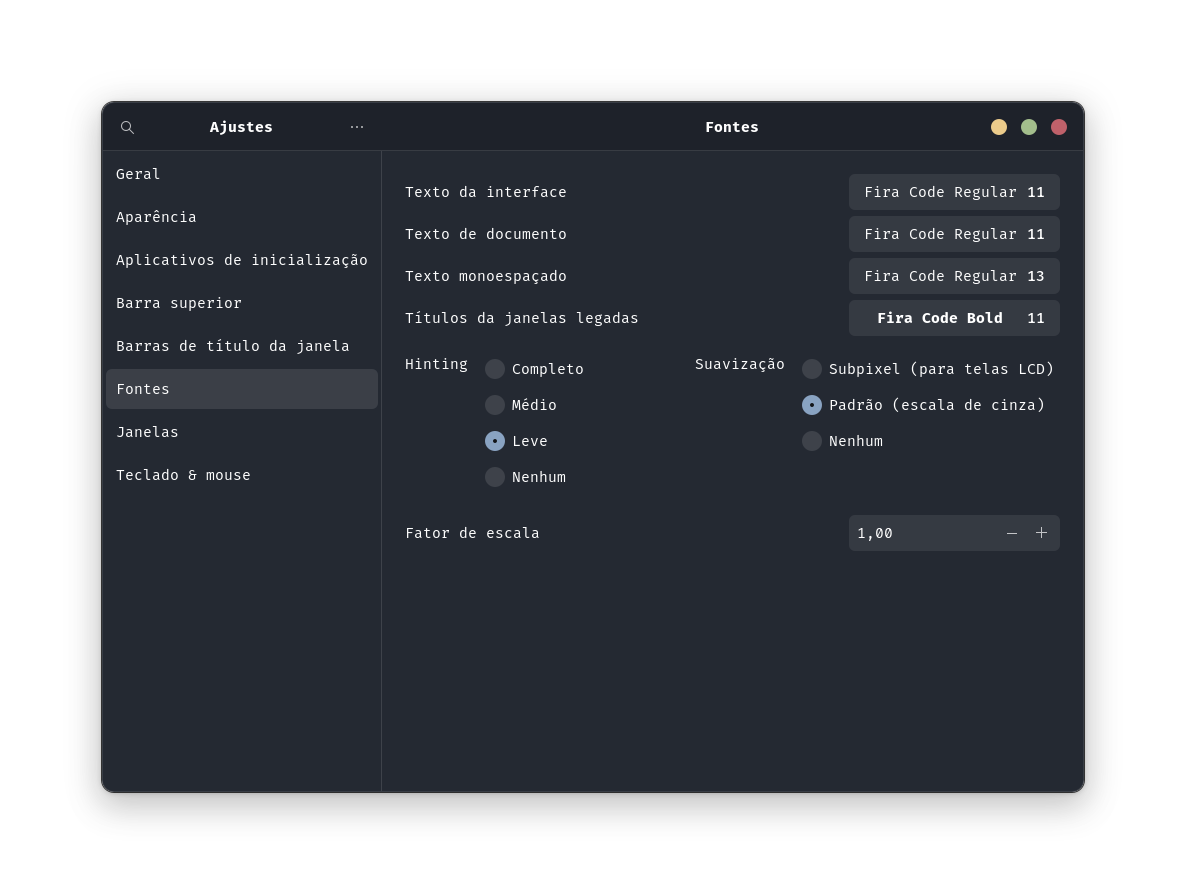
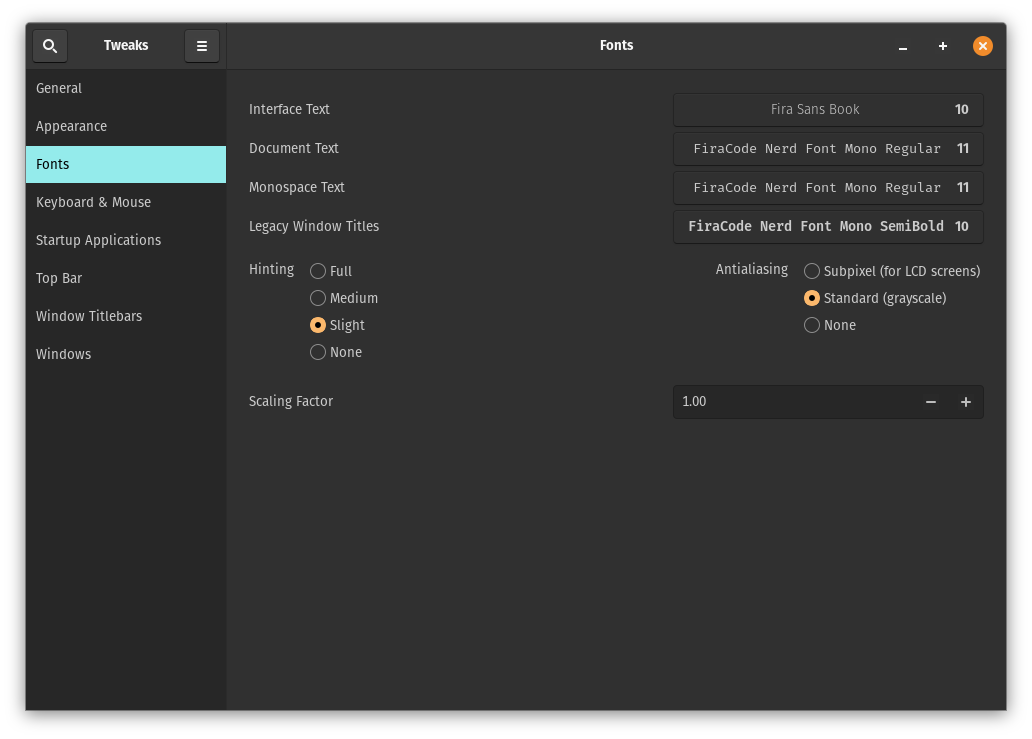
update: setup 2026

diff --git a/README.md b/README.md
@@ -1,19 +1,19 @@
 # My Linux WorkSpace 💻🧑🏽💻
 This is my current OS and How is my workspace.
-![Neofetch](assets/img/ubuntu.png)
+![Neofetch](assets/img/popOs.png)
 
 ## Shell
-I'm currently using the `ZSH` with `Oh My Zsh`
+I'm currently using the `Zsh` with `Oh My Zsh`
 
 ### installation
 - [ZSH](https://github.com/ohmyzsh/ohmyzsh/wiki/Installing-ZSH)
 
-    ```bash
-    sudo apt install zsh
+    ```
+    sudo apt install zsh -y
     ```
 - [Oh My Zsh](https://ohmyz.sh/)
 
-    ```bash
+    ```
     sh -c "$(curl -fsSL https://raw.githubusercontent.com/ohmyzsh/ohmyzsh/master/tools/install.sh)"
     ```
 ### Oh My Zsh plugins
@@ -24,29 +24,84 @@ I'm currently using the `ZSH` with `Oh My Zsh`
 
     > It suggests commands as you type based on history and completions.
 
-## GUI Personalization
-First of all to change the theme on ubuntu we'll need to install `gnome-tweaks`.
-```bash
-sudo apt install gnome-tweaks
+## Terminal
+Now I'm using [Alacritty](https://github.com/alacritty/alacritty).
+
+### installation
+You can install `Alacritty` following the official [guide](https://github.com/alacritty/alacritty/blob/master/INSTALL.md#prerequisites) on github.
+
+Start clonning the Repo:
+
 ```
-After that you can just search for **gnome tweaks** on the menu
+git clone https://github.com/alacritty/alacritty.git
+cd alacritty
+```
 
-![searching for gnome tweaks](assets/img/gnomeTweaks.png)
+Run this command to install `rustup`:
+```
+curl --proto '=https' --tlsv1.2 -sSf https://sh.rustup.rs | sh
+```
 
-### appearance
-![gnome tweaks appearance](assets/img/appearance.png)
-- Theme - [Colloid-gtk-theme](https://github.com/vinceliuice/Colloid-gtk-theme)
-- Icone Theme - [Colloid-icon-theme](https://github.com/vinceliuice/Colloid-icon-theme)
+Then run this command to see if the rustup is installed:
+```
+rustup override stable
+rustup update stable
+```
+
+Now run this command to install the minium dependencies required to build alacritty:
+
+```
+apt install cmake g++ pkg-config libfontconfig1-dev libxcb-xfixes0-dev libxkbcommon-dev python3
+```
+
+### Configuration
+look the file `alacritty.toml`. This is the file with my Apperance config of alacritty. this file should stay at:
+    ```
+    ~/.config/alacritty/
+    ```
+## Apperance
+Let's install `gnome-tweaks` to make some personalization on gnome.
+
+```
+sudo apt install gnome-tweaks -y
+```
 
 ### Font
 ![gnome tweaks font](assets/img/font.png)
-- [Fira Code](https://github.com/tonsky/FiraCode)
+- [Fira Code Nerd](https://www.nerdfonts.com/font-downloads)
 
-## Script
-### Tools
-- `Zsh` with `Oh My Zsh` and plugins
-- `Curl`
-- `JDK`
-- `VsCode`
-- `nvm` and `Node`
-- `Docker`
+## Tools
+- `Zsh` with `Oh My Zsh` and plugins.
+- [Pyenv](https://github.com/pyenv/pyenv) - Manage python venvs.
+    ```
+    curl -fsSL https://pyenv.run | bash
+    ```
+- [SDKMAN](https://sdkman.io/) - Manage Java and Maven versions.
+    ```
+    curl -s "https://get.sdkman.io" | bash
+    ```
+- [VsCode](https://code.visualstudio.com/) - Code editor
+
+    download the `.deb` then run:
+    ```
+    sudo dpkg -i [file name]
+    ```
+- [Chromium](https://flathub.org/en/apps/org.chromium.Chromium) (flatpak version) - Browser
+    ```
+    flatpak install flathub org.chromium.Chromium
+    ```
+- [Docker]()
+    ```
+    sudo apt install docker.io docker-compose -y
+    ```
+    Run this command to the service manager start the docker when the OS boot.
+
+    ```
+    sudo systemctl enable --now docker docker.socket containerd
+    ```
+
+    And then run this command to your user be able to run docker without `sudo`.
+
+    ```
+    sudo usermod -aG docker $USER
+    ```
